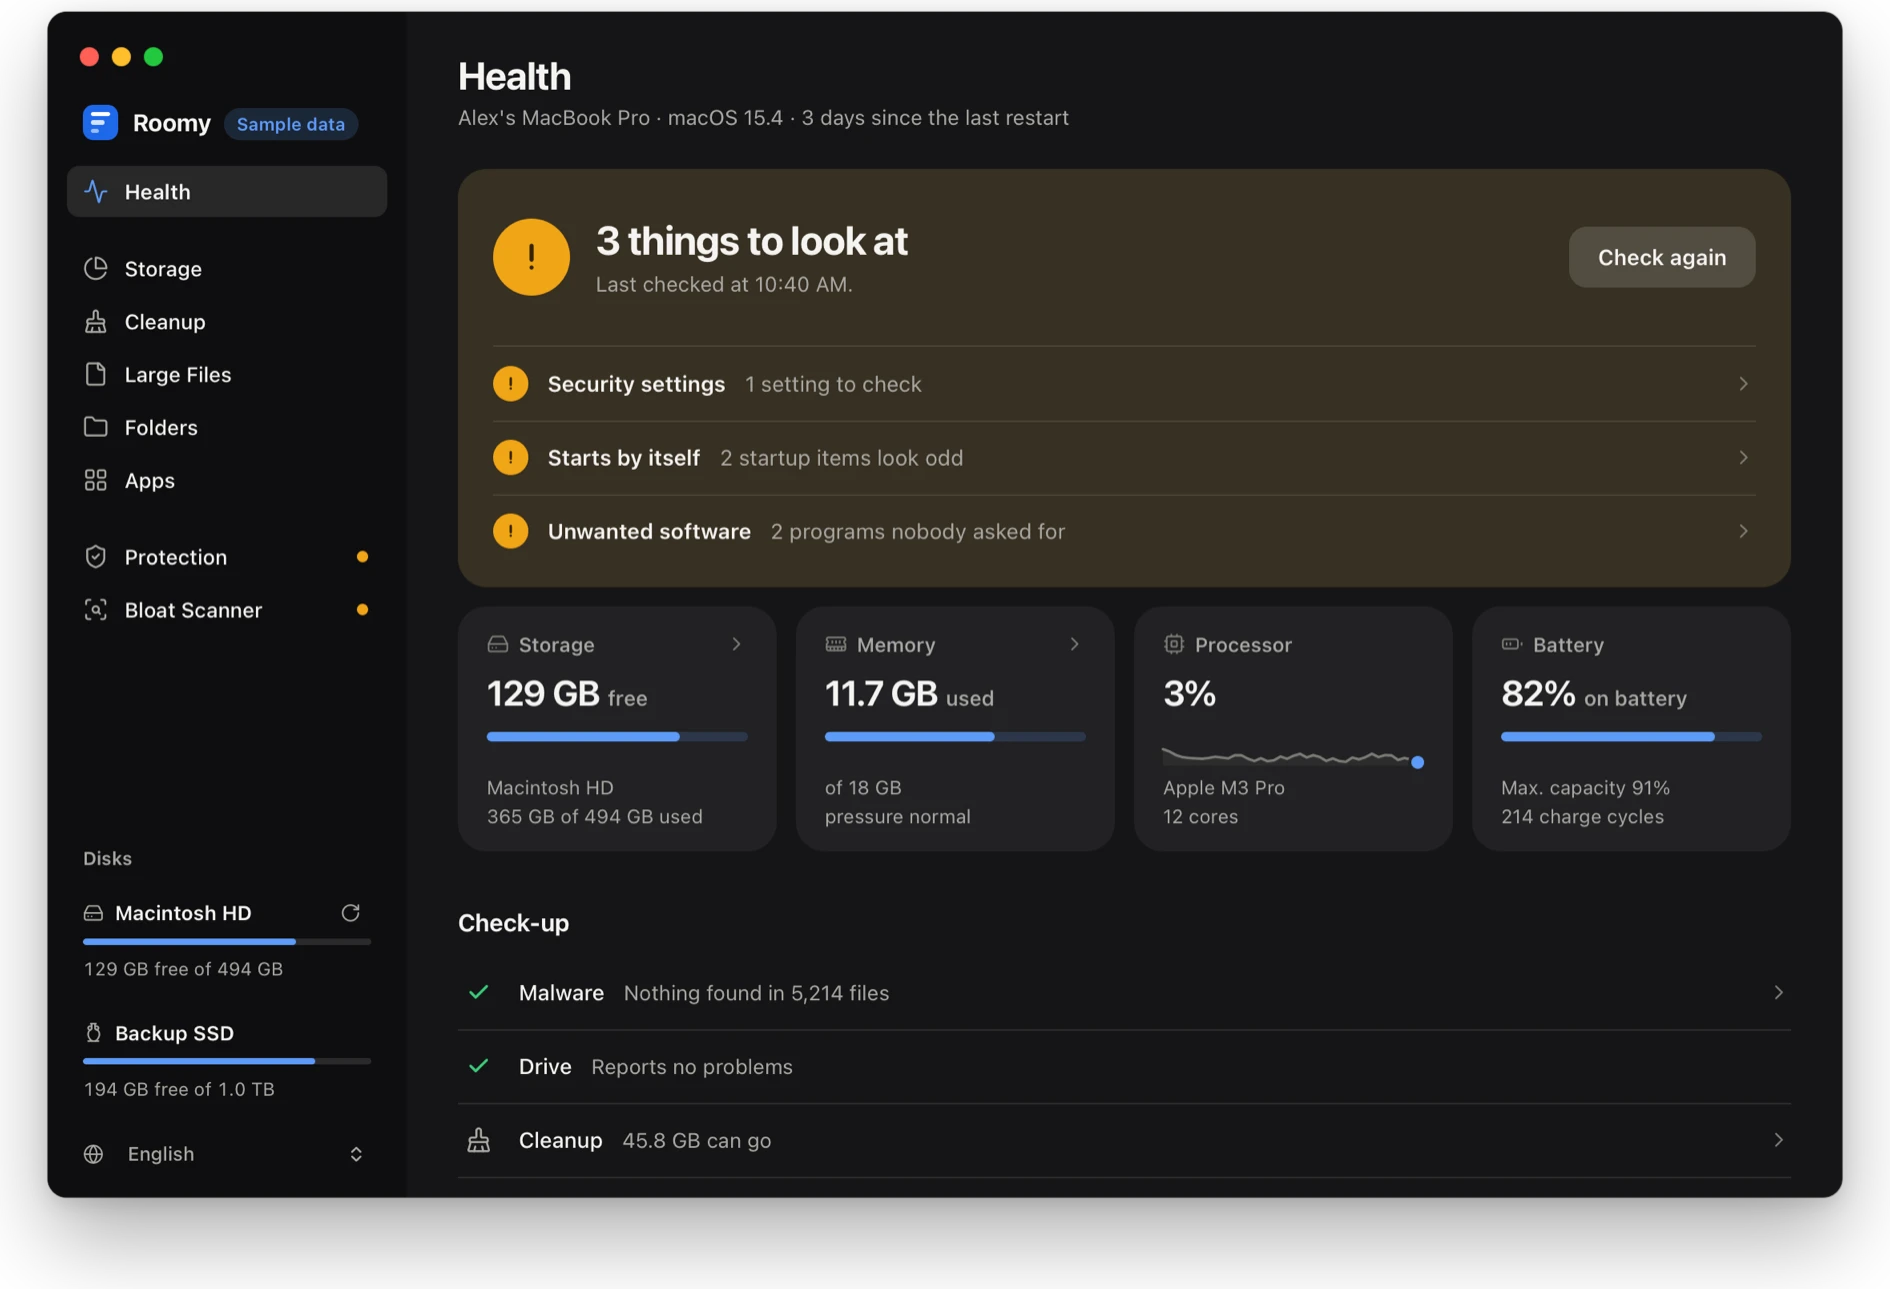
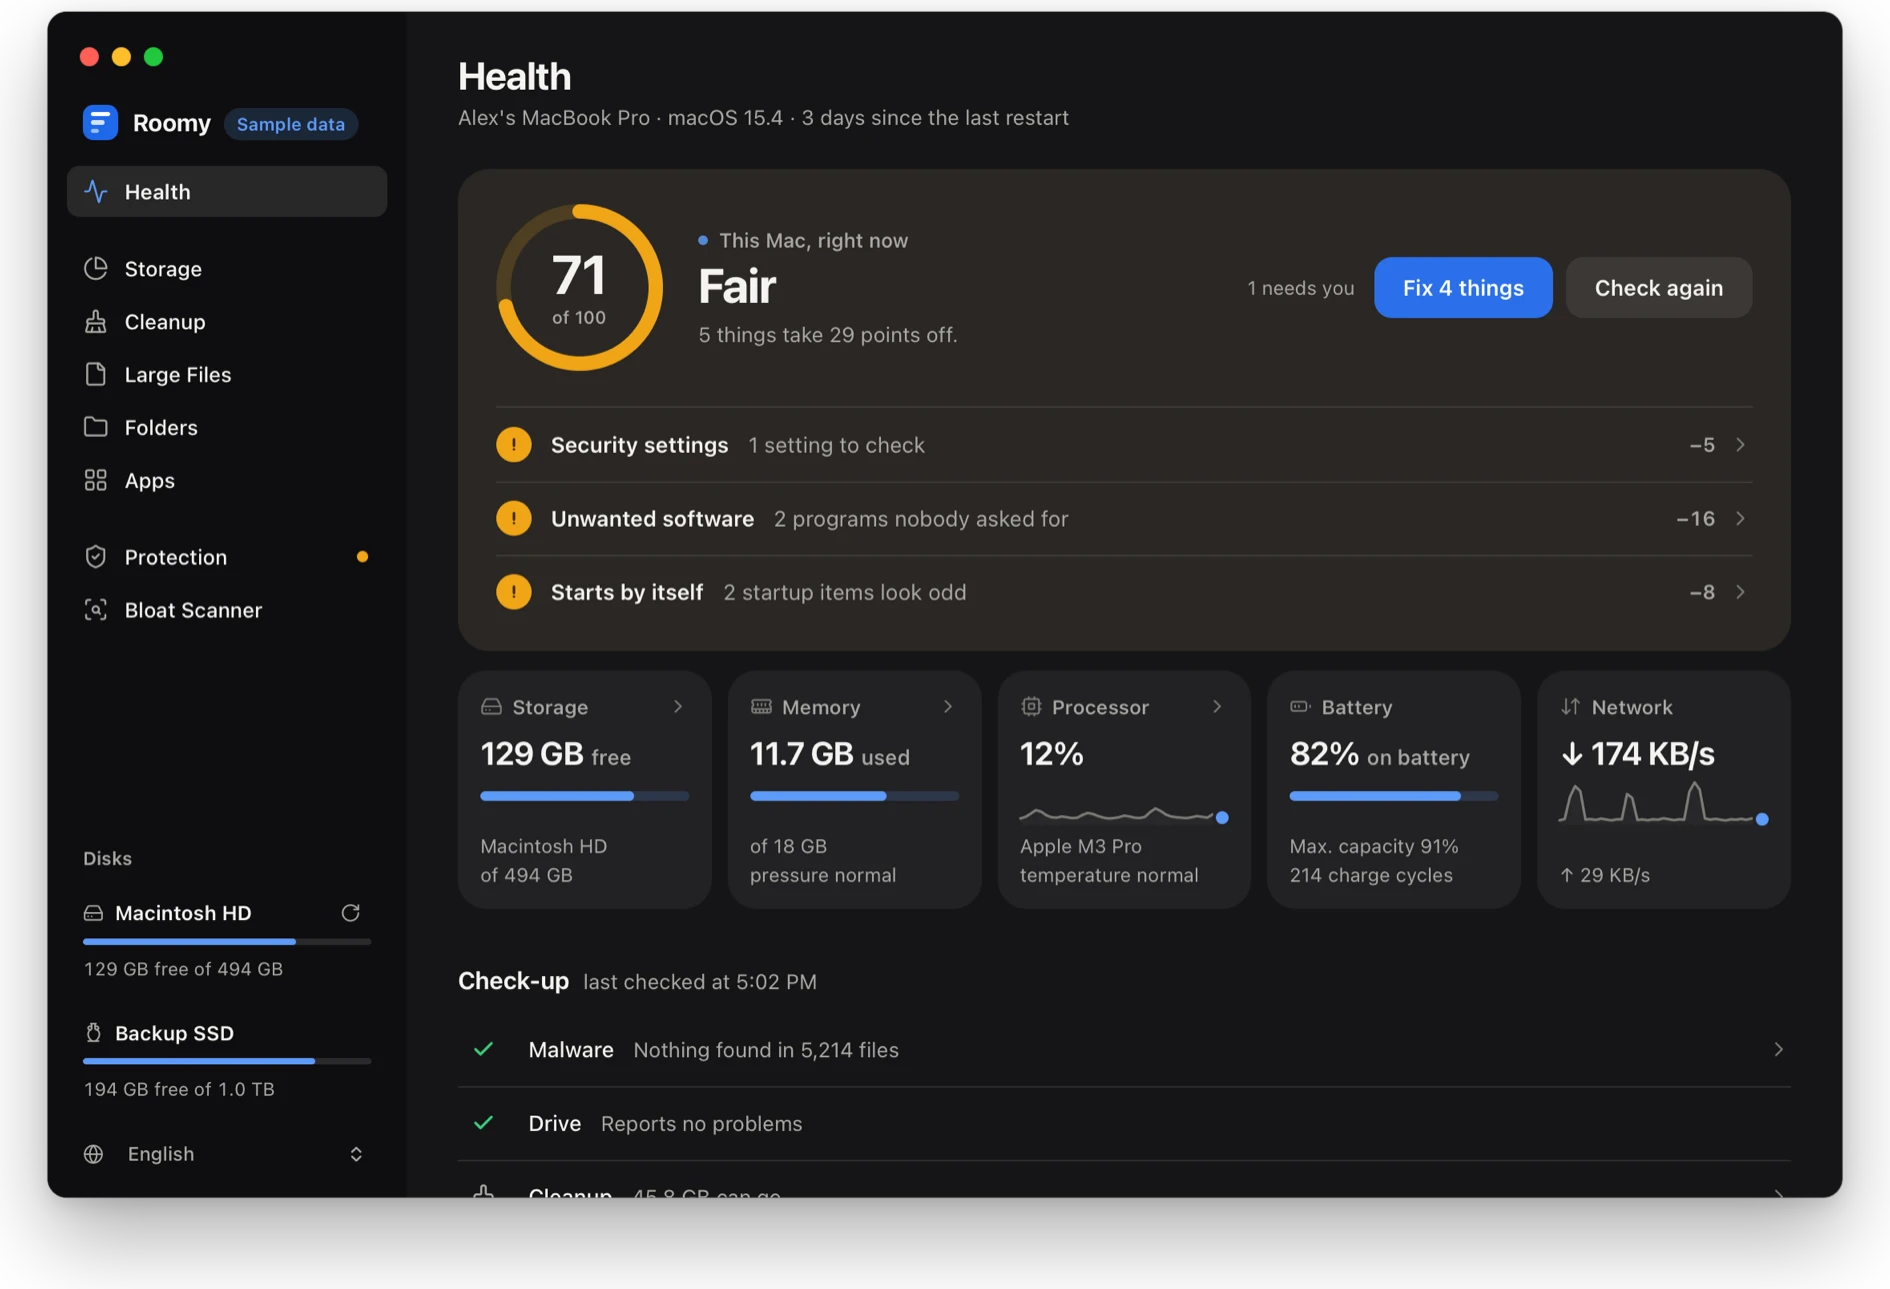
Roomy 0.4: the health number, the fix question and background deleting in its pictures
Seven slides instead of six: Health (the score), Protection (the report),
Fix (the question with its tick boxes), Storage, Cleanup, Delete (the ring
in the corner), Bloat Scanner. Pictures renewed in light and dark.

diff --git a/render.js b/render.js
@@ -6,7 +6,7 @@
 
 // Cloudflare keeps pictures for hours under their address. Raise this number
 // whenever a file in assets/ is replaced, so visitors get the new one.
-const ASSETS = "7";
+const ASSETS = "8";
 const asset = (path) => `${path}?v=${ASSETS}`;
 
 // How the known apps are presented. A repository that is not listed here
@@ -34,8 +34,18 @@ const APPS = {
     slides: [
       {
         label: "Health",
-        caption: "Storage, memory, processor and battery at a glance, and a check-up that says what to look at.",
+        caption: "How healthy your computer is, as one number out of 100, with every missing point named.",
         shots: [{ src: "assets/roomy/health", w: 1890, h: 1289, kind: "window" }],
+      },
+      {
+        label: "Protection",
+        caption: "One scan for malware and unwanted software, with the signatures your system already trusts.",
+        shots: [{ src: "assets/roomy/protection", w: 1890, h: 1289, kind: "window" }],
+      },
+      {
+        label: "Fix",
+        caption: "One button fixes what the scan found. Every line says what will happen to it.",
+        shots: [{ src: "assets/roomy/fix", w: 1890, h: 1289, kind: "window" }],
       },
       {
         label: "Storage",
@@ -48,14 +58,9 @@ const APPS = {
         shots: [{ src: "assets/roomy/cleanup", w: 1890, h: 1289, kind: "window" }],
       },
       {
-        label: "Apps",
-        caption: "Every app with its size and when you last opened it. Tick what can go.",
+        label: "Delete",
+        caption: "Tick what can go and carry on. Deleting runs in the background while a ring in the corner counts.",
         shots: [{ src: "assets/roomy/apps", w: 1890, h: 1289, kind: "window" }],
-      },
-      {
-        label: "Protection",
-        caption: "A malware scan with the signatures your system already trusts, and your security settings.",
-        shots: [{ src: "assets/roomy/protection", w: 1890, h: 1289, kind: "window" }],
       },
       {
         label: "Bloat Scanner",
